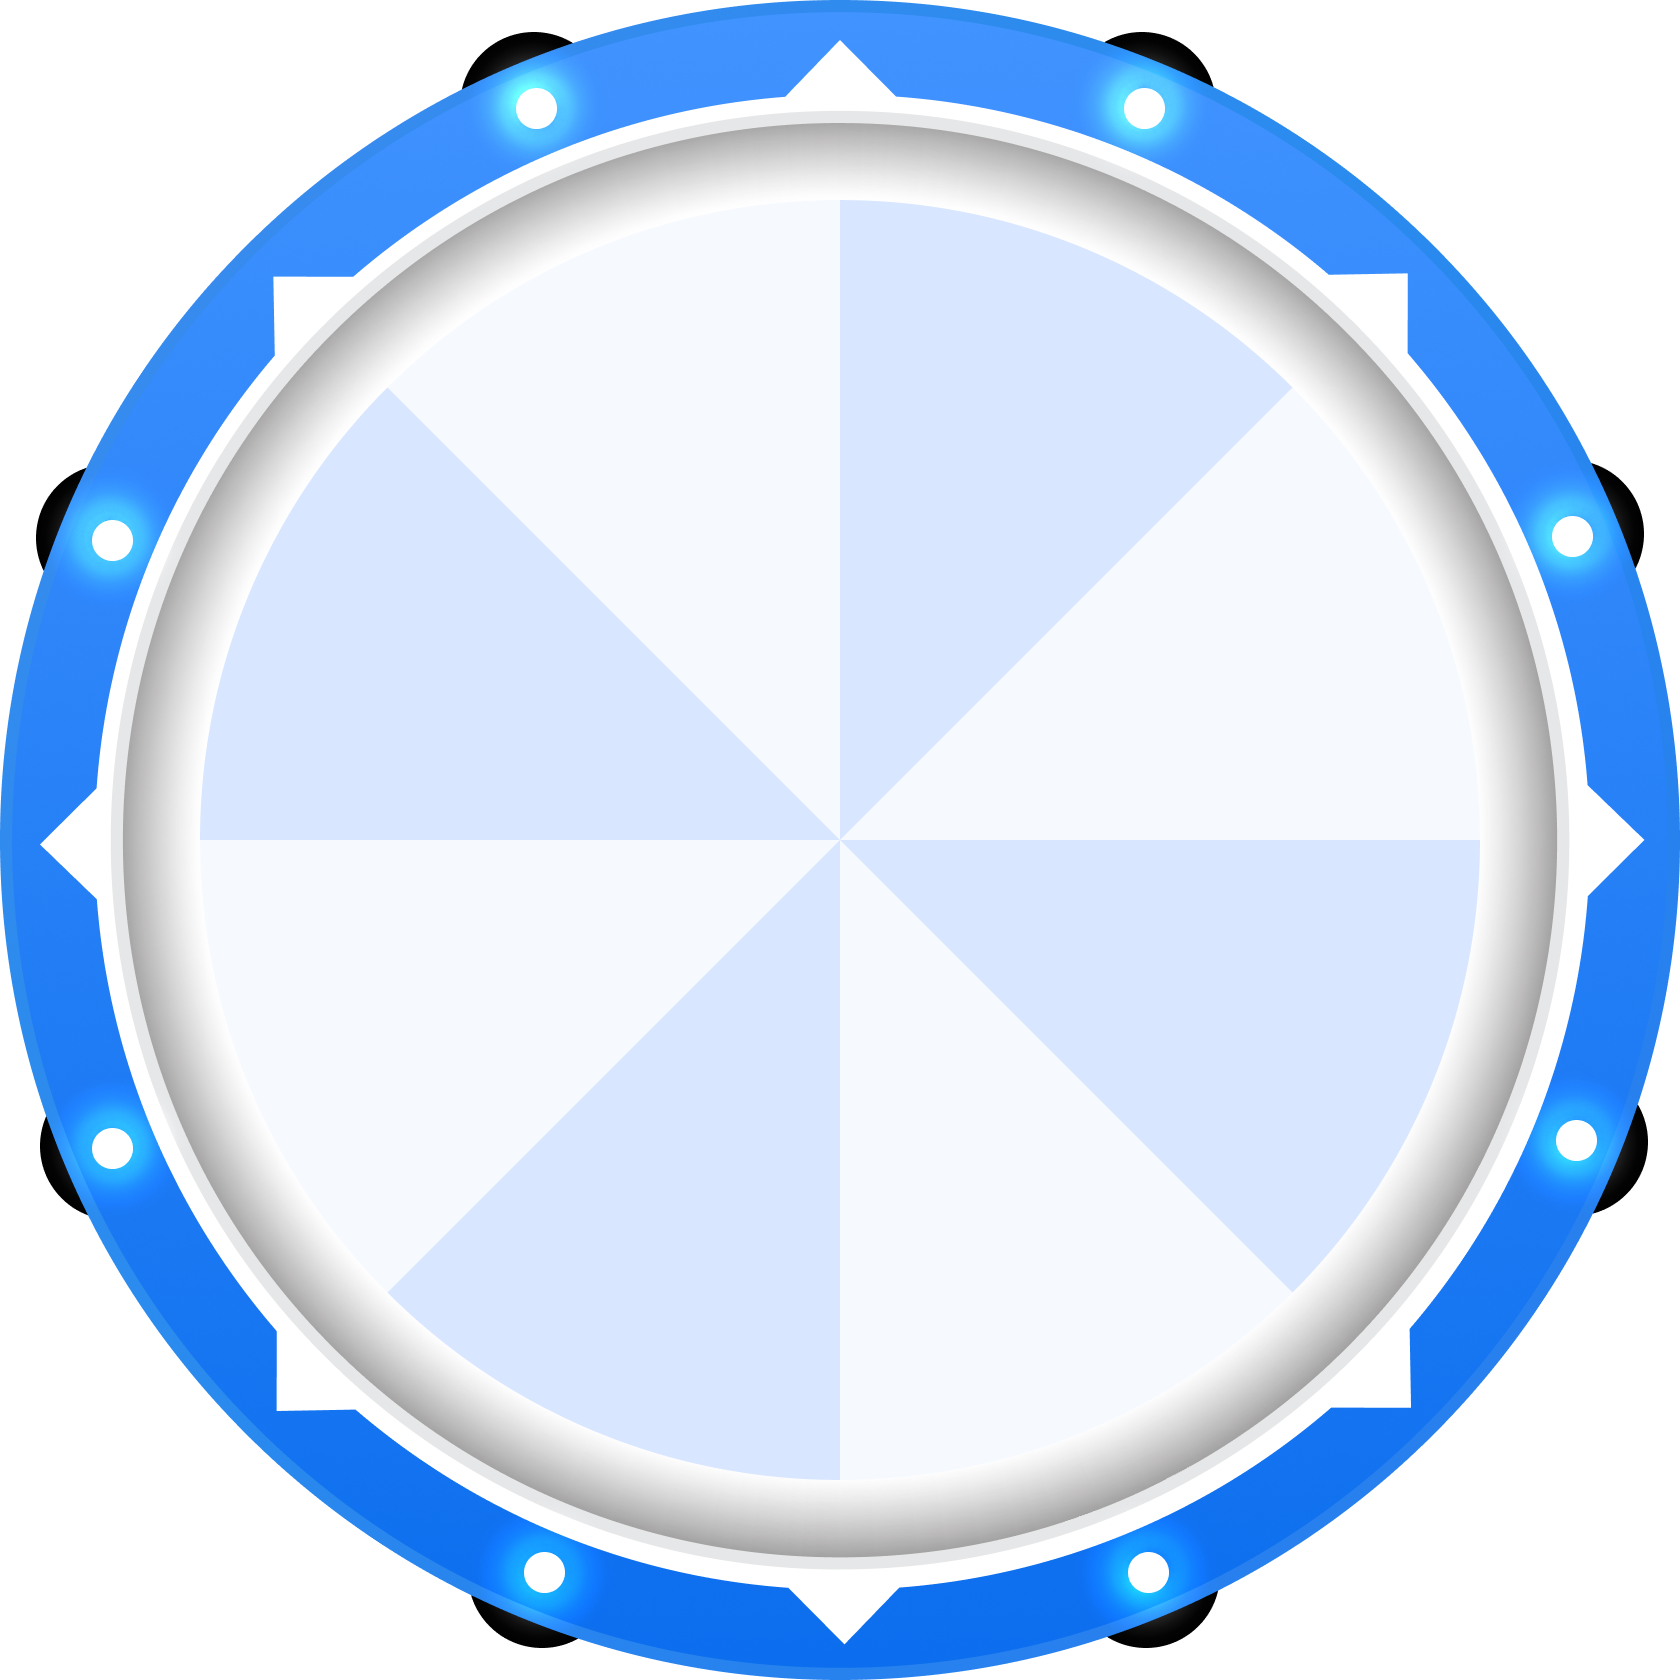
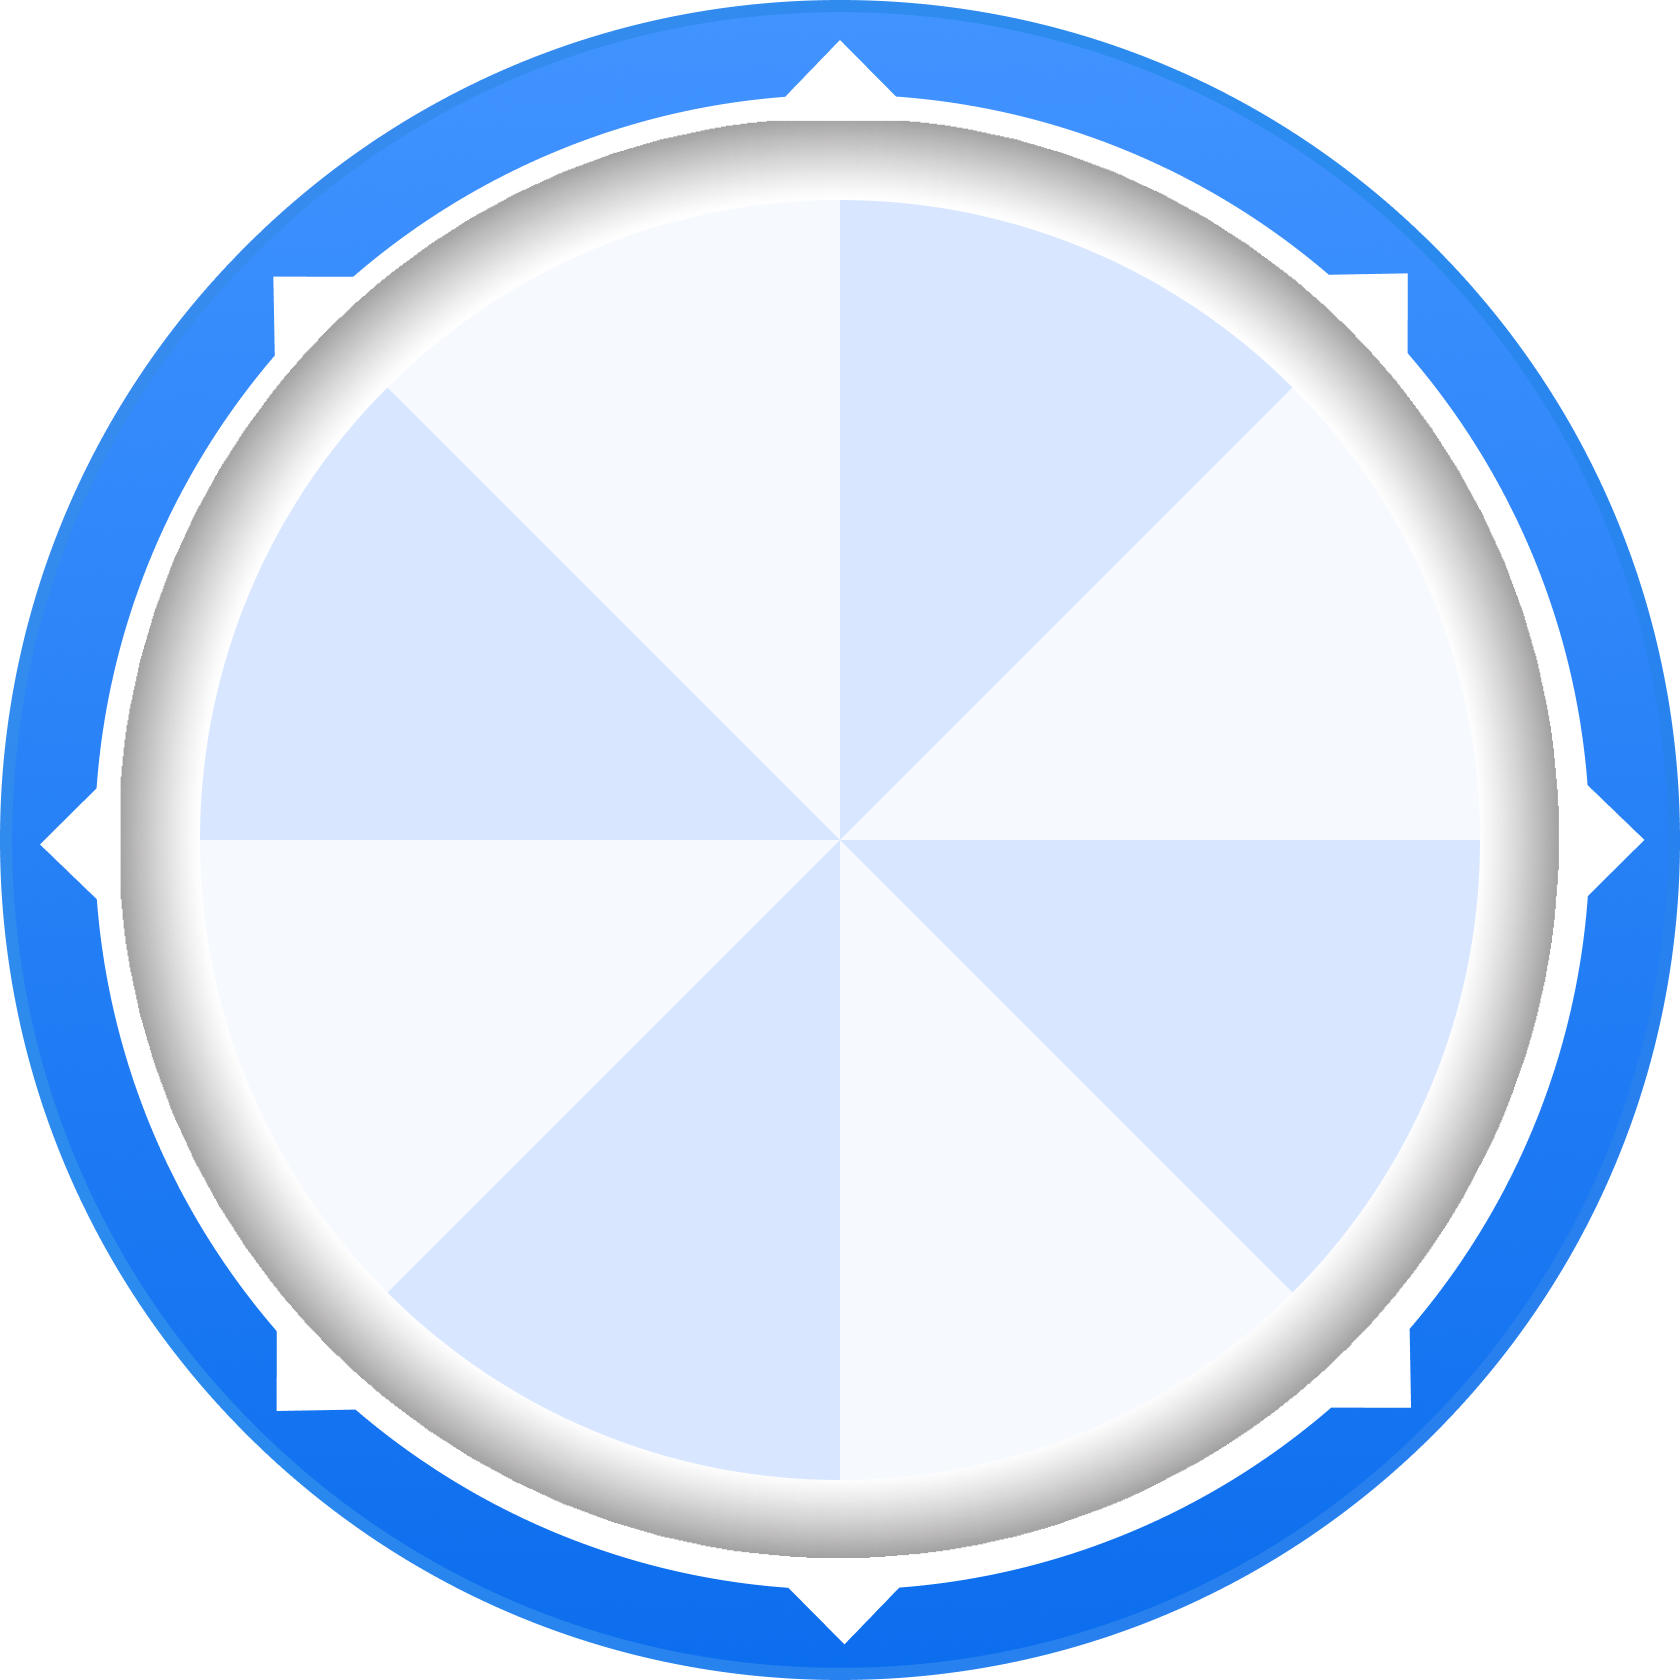
light neon spin

diff --git a/src/components/WheelOfFortune.tsx b/src/components/WheelOfFortune.tsx
@@ -3,7 +3,7 @@ import { twMerge } from "tailwind-merge";
 import { useWheelSpin } from "../hooks/useWheelSpin";
 import type { WheelOfFortunePrize } from "../types/wheel-of-fortune-prize";
 import { generateWheelGradient } from "../utils/wheel-gradient";
-
+const BORDERCIRCLESOFFSETANGLE = 21.5;
 export interface WheelOfFortuneRef {
   spin: () => void;
   isSpinning: boolean;
@@ -61,12 +61,12 @@ export const WheelOfFortune = forwardRef<
     wheelRef,
     pointerRef
   );
-
+  const borderCircles = Array.from({ length: 8 });
   useImperativeHandle(ref, () => ({
     isSpinning,
     spin,
   }));
-
+  const isWinnerRevealed = isSpinning
   return (
     <div
       className={twMerge(
@@ -74,11 +74,44 @@ export const WheelOfFortune = forwardRef<
         className
       )}
     >
-      <div className="aspect-square relative w-full overflow-hidden">
+      <div className="aspect-square relative w-full overflow-hidden z-10 ">
+        {borderCircles.length > 0 && (
+          <div className="absolute z-10 top-0 left-0 w-full h-full neon pointer-events-none" style={{
+            transform: `rotate(${rotation}deg)`,
+            transition: skipWheelAnimation
+              ? "none"
+              : `transform ${animationDurationInSeconds}s ${animationTimingFunction}`,
+          }}>
+            {borderCircles.map((_, index) => {
+              const rotationAngle = (360 / borderCircles.length) * index + BORDERCIRCLESOFFSETANGLE;
+              const animationClass = isWinnerRevealed
+                ? "animate-blink-all"
+                : index % 2 === 0
+                  ? "animate-blink-even-odd"
+                  : "animate-blink-even-even "
+                ;
+              return (
+                <div
+                  key={`border-circle-${index}`}
+                  className="absolute top-0 left-0 w-full h-full"
+                  style={{ transform: `rotate(${rotationAngle}deg)` }}
+                >
+                  <div
+                    className={twMerge(
+                      "absolute top-1.5 left-1/2 -translate-x-1/2 size-3 bg-white rounded-full shadow-lg neon-dot",
+                      animationClass
+                    )}
+                  />
+                </div>
+              );
+            })}
+          </div>
+        )}
         {wheelPointer && (
           <div
             ref={pointerRef}
             className="absolute z-20 top-[12px] left-[50%] translate-x-[-50%] "
+            draggable={false}
           >
             {wheelPointer}
           </div>
@@ -135,11 +168,17 @@ export const WheelOfFortune = forwardRef<
             ))}
         </div>
         {wheelSpinButton && (
-          <div className="absolute top-1/2 left-1/2 -translate-x-1/2 -translate-y-1/2">
+          <div className={twMerge("absolute top-1/2 left-1/2 -translate-x-1/2 -translate-y-1/2", isSpinning && 'pointer-events-none saturate-20')}>
             {wheelSpinButton}
           </div>
         )}
 
+      </div>
+      <div className="absolute top-1/2 left-1/2 -translate-x-1/2 -translate-y-1/2 w-[calc(100%+200px)] h-[calc(100%+200px)] z-0 overflow-visible pointer-events-none ">
+        <img
+          src="/sun-light.png"
+          className="w-full h-full object-contain animate-spin-reverse origin-center"
+        />
       </div>
     </div>
   );

diff --git a/src/index.css b/src/index.css
@@ -1,4 +1,5 @@
 @import "tailwindcss";
+
 .wheel-spinning-loading {
   animation: spin-infinite 1s linear infinite;
 }
@@ -7,57 +8,125 @@
   from {
     transform: rotate(0deg);
   }
+
   to {
     transform: rotate(360deg);
   }
 }
+
 @keyframes spin-infinite {
   from {
     transform: rotate(0deg);
   }
+
   to {
     transform: rotate(360deg);
   }
 }
+
 /*  animation  kim bật nảy */
 @keyframes pointer-wiggle {
   0% {
     transform: rotate(0deg);
   }
+
   50% {
-    transform: rotate(-25deg); /* bị  gờ đẩy lùi */
+    transform: rotate(-25deg);
+    /* bị  gờ đẩy lùi */
   }
+
   100% {
-    transform: rotate(2deg); /* bật  về phía trước rồi trở lại */
+    transform: rotate(2deg);
+    /* bật  về phía trước rồi trở lại */
   }
 }
+
 @keyframes fade-in-up {
   0% {
     opacity: 0;
-    transform: translate3d(0, 100%, 0);
+    transform: translate3d(0, 100%, 0) scale(0);
   }
+
   100% {
     opacity: 1;
-    transform: translate3d(0, 0, 0);
+    transform: translate3d(0, 0, 0) scale(1);
   }
 }
+
 @keyframes fade-out-up {
   0% {
     opacity: 1;
     transform: translate3d(0, 0, 0);
   }
+
   100% {
     opacity: 0;
     transform: translate3d(0, -100%, 0);
   }
 }
+
 .fade-in-up {
-  animation: fade-in-up 0.4s ease-out forwards;
+  animation: fade-in-up 0.6s ease-out forwards;
 }
+
 .fade-out-up {
   animation: fade-out-up 0.4s ease-in forwards;
 }
+
 .pointer-tick-animation {
-  transform-origin: 50% 20%; /* Đặt tâm xoay gần đỉnh của kim */
+  transform-origin: 50% 20%;
+  /* Đặt tâm xoay gần đỉnh của kim */
   animation: pointer-wiggle 0.1s ease-out;
+}
+
+.neon-dot {
+  box-shadow:
+    0 0 5px #0ff,
+    0 0 10px #0ff,
+    0 0 20px #0ff,
+    0 0 40px #0ff;
+}
+
+/* Keyframes cho nhấp nháy */
+@keyframes blink-even-odd {
+  0%, 100% {
+    opacity: 1;
+    transform: scale(1);
+  }
+  50% {
+    opacity: 0.2;
+    transform: scale(0.8);
+  }
+}
+
+@keyframes blink-all {
+  0%, 100% {
+    opacity: 1;
+    box-shadow: 0 0 5px #fff, 0 0 10px #fff, 0 0 15px #f09;
+  }
+  50% {
+    opacity: 0.5;
+    box-shadow: 0 0 2px #fff, 0 0 4px #fff, 0 0 6px #f09;
+  }
+}
+
+.animate-blink-even-odd {
+  animation: blink-even-odd 1s infinite linear;
+}
+
+.animate-blink-even-even {
+  animation: blink-even-odd 1s infinite linear 0.5s;
+}
+
+.animate-blink-all {
+  animation: blink-all 0.5s infinite;
+}
+@keyframes spin-reverse {
+  to {
+    transform: rotate(-360deg);
+  }
+}
+
+.animate-spin-reverse {
+  animation: spin-reverse 12s linear infinite;
 }

diff --git a/src/App.tsx b/src/App.tsx
@@ -94,13 +94,13 @@ function App() {
     {
       color: "#feeef6",
       prize: (
-        <div className="flex flex-col items-center justify-center w-full mt-10">
-          <img src="/sad-face.png" alt="Gift 200 IPS" className="w-[39px] h-[39px] object-cover" />
+        <div className="flex flex-col items-center justify-center w-full mt-6">
+          <img src="/sad-face-blue.png" alt="Gift 200 IPS" className="size-14 object-cover" />
 
         </div>
       ),
       key: "sad_face",
-      value: "Sad Face",
+      value: "Good luck",
       probability: 0.5,
       nearMissEffect: {
         targetDirection: 'before',
@@ -171,12 +171,12 @@ function App() {
     {
       color: "#feeef6",
       prize: (
-        <div className="flex flex-col items-center justify-center w-full mt-10">
-          <img src="/sad-face.png" alt="Gift 200 IPS" className="w-[39px] h-[39px] object-cover" />
+        <div className="flex flex-col items-center justify-center w-full mt-6">
+          <img src="/sad-face-blue.png" alt="Gift 200 IPS" className="size-14 object-cover" />
         </div>
       ),
       key: "try_again",
-      value: "Sad Face",
+      value: "Good luck",
       probability: 0.05,
       nearMissEffect: {
         targetDirection: 'before',
@@ -212,15 +212,15 @@ function App() {
         {showModal && (
           <div
             onClick={handleCloseModal}
-            className={`fixed bg-black/90 z-30 inset-0 flex items-center justify-center cursor-pointer ${animate}`}
+            className={`fixed bg-black/90 z-30 inset-0 flex items-center justify-center cursor-pointer `}
           >
             <div
               // onClick={(e) => e.stopPropagation()}
               className="flex flex-col justify-center items-center gap-3 "
             >
-              <div className="w-[420px] relative">
+              <div className={`w-[420px] relative ${animate}`}>
                 <img src="/gift.png" alt="Gift" className="max-w-md w-full" />
-                <div className="absolute bottom-[100px] text-base font-bold text-white flex items-center p-4 left-1/2 -translate-x-1/2">
+                <div className="absolute bottom-[110px] text-2xl font-bold text-white flex items-center  left-1/2 -translate-x-1/2">
                   {prizeWinnerKey?.value}
                 </div>
               </div>
@@ -258,6 +258,7 @@ function App() {
               }}
               animationDurationInMs={10000}
             />
+           
           </div>
         </div>
       </div>
